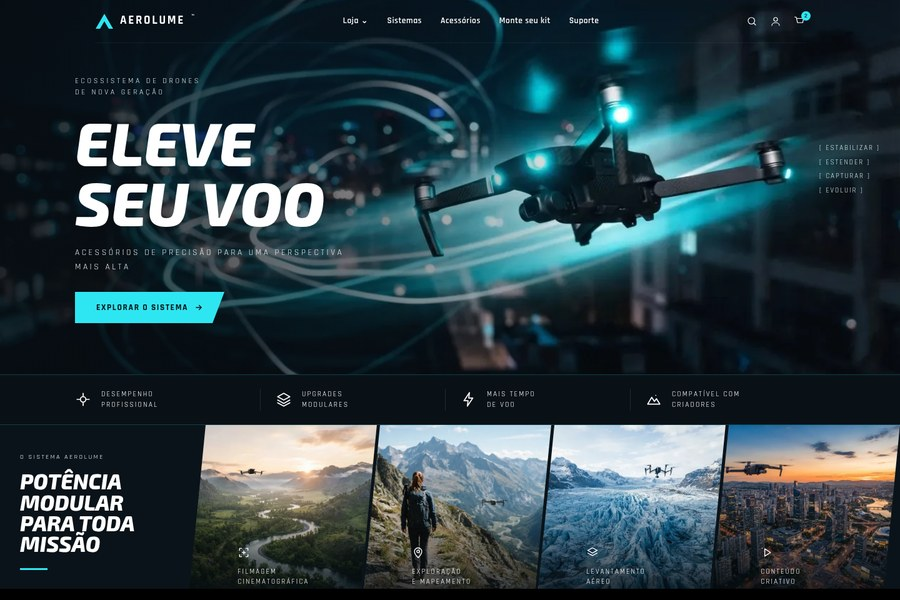
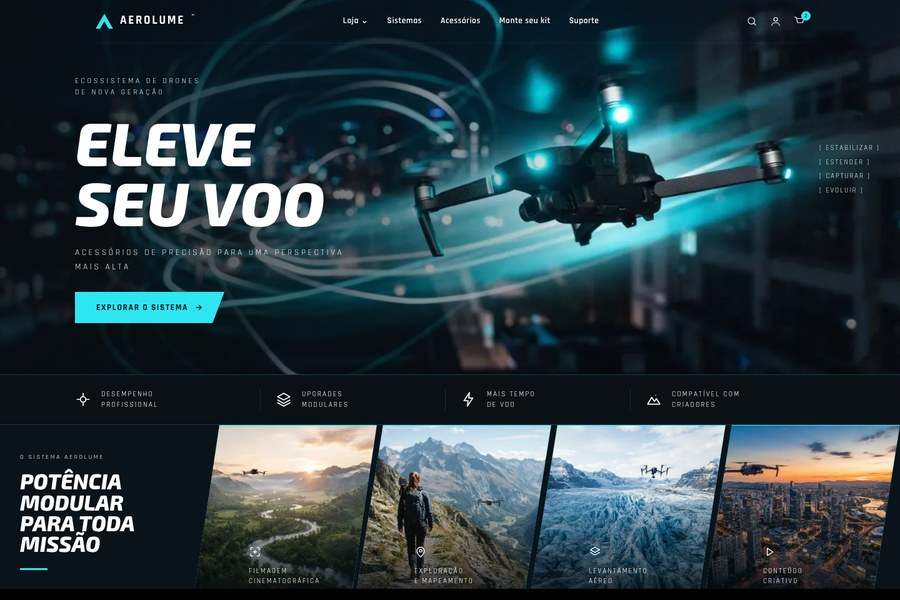
Aerolume: cards de missão em paralelogramo com borda ciana, etapas do sistema como no pin

Changed region(s): [[0.2178, 0.69, 1.0, 0.99], [0.9644, 0.96, 0.9956, 0.99]]

diff --git a/src/components/models/DroneFold.tsx b/src/components/models/DroneFold.tsx
@@ -54,16 +54,16 @@ export function DroneFold({ client }: { client?: { name?: string; whatsapp?: str
         .dr0 .feat div{display:flex;align-items:center;gap:16px;border-left:1px solid rgba(255,255,255,.1);padding-left:24px;font-size:11.500px;letter-spacing:.18em;text-transform:uppercase;line-height:1.5;white-space:pre-line}.dr0 .feat div:first-child{border:0;padding-left:0}
         .dr0 .mis{display:grid;grid-template-columns:.9fr 3.1fr;background:#0a1319}.dr0 .mis .l{padding:44px 30px 44px 32px;display:flex;flex-direction:column;justify-content:center}
         .dr0 .mis h2{font-size:34px}.dr0 .mis .l i{display:block;width:44px;height:3px;background:${CY};margin-top:22px}.dr0 .mis .eb{font-size:10.500px;margin-bottom:14px;letter-spacing:.22em}
-        .dr0 .ms{display:grid;grid-template-columns:repeat(4,1fr);gap:0;padding:0}.dr0 .m{position:relative;min-height:220px;overflow:hidden;clip-path:polygon(9% 0,100% 0,91% 100%,0 100%);margin-left:-22px;background:#16252d}
-        .dr0 .m img{position:absolute;inset:0;width:100%;height:100%;object-fit:cover}.dr0 .m:after{content:"";position:absolute;inset:0;background:linear-gradient(0deg,rgba(7,13,18,.85),rgba(7,13,18,0) 55%)}
-        .dr0 .m span{position:absolute;z-index:2;left:26%;bottom:16px;font-size:11px;letter-spacing:.2em;text-transform:uppercase;line-height:1.5;white-space:pre-line}.dr0 .m svg{position:absolute;z-index:2;left:26%;bottom:62px}
+        .dr0 .ms{display:grid;grid-template-columns:repeat(4,1fr);gap:0;padding:0}.dr0 .m{position:relative;min-height:240px;clip-path:polygon(14% 0,100% 0,86% 100%,0 100%);margin-left:-34px;background:#2ee6f2;padding:1px 0}.dr0 .m:first-child{margin-left:-14px}.dr0 .mi{position:absolute;inset:1px 0;overflow:hidden;clip-path:polygon(14% 0,100% 0,86% 100%,0 100%);background:#16252d}
+        .dr0 .mi img{position:absolute;inset:0;width:100%;height:100%;object-fit:cover}.dr0 .mi:after{content:"";position:absolute;inset:0;background:linear-gradient(0deg,rgba(7,13,18,.85),rgba(7,13,18,0) 55%)}
+        .dr0 .mi span{position:absolute;z-index:2;left:30%;bottom:16px;font-size:11px;letter-spacing:.2em;text-transform:uppercase;line-height:1.5;white-space:pre-line}.dr0 .mi svg{position:absolute;z-index:2;left:30%;bottom:62px}
         .dr0 .acc{padding:36px 0 40px;background:#080f14}.dr0 .ah{display:flex;justify-content:space-between;align-items:center;margin-bottom:18px;font-size:13px;letter-spacing:.2em;text-transform:uppercase;font-weight:700}.dr0 .ah a{color:${CY};font-size:11.500px}
         .dr0 .ag{display:grid;grid-template-columns:repeat(4,1fr);gap:14px}.dr0 .ac{background:${PN};border:1px solid rgba(255,255,255,.07);border-radius:4px;position:relative;overflow:hidden}
         .dr0 .ac img{width:100%;aspect-ratio:4/3;object-fit:cover;display:block;background:#101b23}.dr0 .ac .b{padding:12px 14px 16px}.dr0 .ac b{display:block;font-size:15px;font-weight:700}.dr0 .ac small{display:block;font-size:11.500px;color:${MUT};margin:2px 0 8px}.dr0 .ac em{font-style:normal;font-weight:600;font-size:15px}
         .dr0 .ac i{position:absolute;right:0;bottom:0;width:50px;height:34px;background:${CY};display:grid;place-items:center;clip-path:polygon(28% 0,100% 0,100% 100%,0 100%)}
         .dr0 .sys{display:grid;grid-template-columns:.8fr 2fr;background:#091016;border-top:1px solid ${LN};border-bottom:1px solid ${LN};align-items:center}
-        .dr0 .sys .l{padding:38px 28px 38px 32px}.dr0 .sys h2{font-size:34px;margin-bottom:18px}.dr0 .sys i.bar{display:block;width:40px;height:3px;background:${CY};margin-bottom:22px}
-        .dr0 .sys li{list-style:none;font-size:12px;letter-spacing:.18em;text-transform:uppercase;padding:8px 0;border-bottom:1px solid rgba(255,255,255,.08);display:flex;gap:16px}.dr0 .sys li b{color:${CY};font-weight:600}
+        .dr0 .sys .l{padding:38px 28px 38px 32px}.dr0 .sys h2{font-size:40px;margin-bottom:18px}.dr0 .sys i.bar{display:block;width:40px;height:3px;background:${CY};margin-bottom:22px}
+        .dr0 .sys li{list-style:none;font-size:12px;letter-spacing:.18em;text-transform:uppercase;padding:8px 0;border-bottom:1px solid rgba(255,255,255,.08);display:flex;gap:16px}.dr0 .sys li b{color:#7d8c93;font-weight:500}.dr0 .sys li{color:#e8eef0;border-bottom:1px solid rgba(255,255,255,.14)}.dr0 .sys li:first-child,.dr0 .sys li:first-child b{color:${CY};font-weight:600;border-bottom-color:${CY}}
         .dr0 .sys img{width:100%;display:block;aspect-ratio:16/8;object-fit:cover;background:#0c161d;filter:brightness(.52) saturate(.8) contrast(1.15) hue-rotate(-8deg)}
         .dr0 .build{position:relative;min-height:340px;display:flex;align-items:center;justify-content:flex-end;background:#13252e;overflow:hidden}
         .dr0 .build img{position:absolute;inset:0;width:100%;height:100%;object-fit:cover;object-position:28% 30%}.dr0 .build:before{content:"";position:absolute;inset:0;z-index:1;background:linear-gradient(270deg,rgba(7,13,18,.85) 0%,rgba(7,13,18,0) 62%)}
@@ -74,7 +74,7 @@ export function DroneFold({ client }: { client?: { name?: string; whatsapp?: str
           .dr0 .hero{min-height:auto}.dr0 .hero:before{background:linear-gradient(180deg,rgba(7,13,18,.4),rgba(7,13,18,.25) 40%,rgba(7,13,18,.92) 85%)}
           .dr0 h1{font-size:46px}.dr0 .hc{padding:210px 0 30px}.dr0 .side{display:none}
           .dr0 .feat .wrap{grid-template-columns:1fr 1fr;gap:20px;padding:20px}.dr0 .feat div{border:0;padding:0}
-          .dr0 .mis{grid-template-columns:1fr}.dr0 .mis .l{padding:30px 20px 10px}.dr0 .ms{grid-template-columns:1fr 1fr;gap:10px;padding:0 20px 24px}.dr0 .m{margin:0;clip-path:none;min-height:170px}.dr0 .m span,.dr0 .m svg{left:14px}
+          .dr0 .mis{grid-template-columns:1fr}.dr0 .mis .l{padding:30px 20px 10px}.dr0 .ms{grid-template-columns:1fr 1fr;gap:10px;padding:0 20px 24px}.dr0 .m,.dr0 .m:first-child{margin:0;clip-path:none;min-height:170px;background:none;padding:0}.dr0 .mi{clip-path:none;inset:0}.dr0 .m span,.dr0 .mi svg{left:14px}
           .dr0 .ag{grid-template-columns:1fr 1fr}.dr0 .sys{grid-template-columns:1fr}.dr0 .sys .l{padding:30px 20px 10px}
           .dr0 .build{justify-content:flex-start;min-height:300px;align-items:flex-end}.dr0 .build .t{padding:0 20px 28px}.dr0 .build h2{font-size:34px}
         }
@@ -98,7 +98,7 @@ export function DroneFold({ client }: { client?: { name?: string; whatsapp?: str
       <section className="feat"><div className="wrap">{FEAT.map(([t, d]) => <div key={t}><Ico d={d as string} s={26} />{t}</div>)}</div></section>
       <section className="mis">
         <div className="l"><span className="eb">O sistema {brand.charAt(0) + brand.slice(1).toLowerCase()}</span><h2>Potência<br />modular<br />para toda<br />missão</h2><i /></div>
-        <div className="ms">{MISS.map((m) => <div className="m" key={m.t}><img src={m.img} alt={m.t.replace("\n", " ")} /><Ico d={m.ic} s={20} /><span>{m.t}</span></div>)}</div>
+        <div className="ms">{MISS.map((m) => <div className="m" key={m.t}><div className="mi"><img src={m.img} alt={m.t.replace("\n", " ")} /><Ico d={m.ic} s={20} /><span>{m.t}</span></div></div>)}</div>
       </section>
       <section className="acc wrap" id="acc" style={{ maxWidth: "none", padding: 0 }}><div className="wrap">
         <div className="ah"><span>[ Acessórios em destaque</span><a href={wa("ver todos os acessórios")}>VER TODOS →</a></div>
